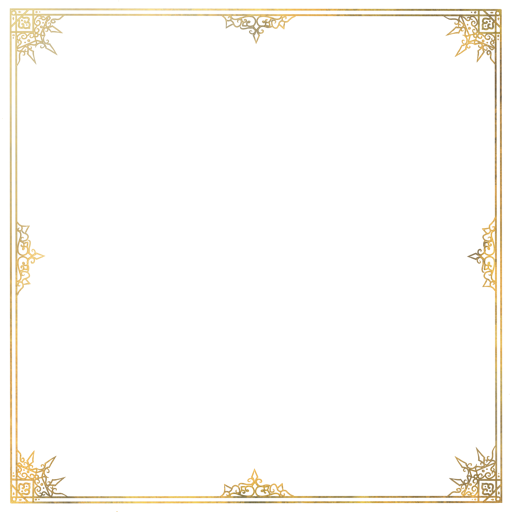
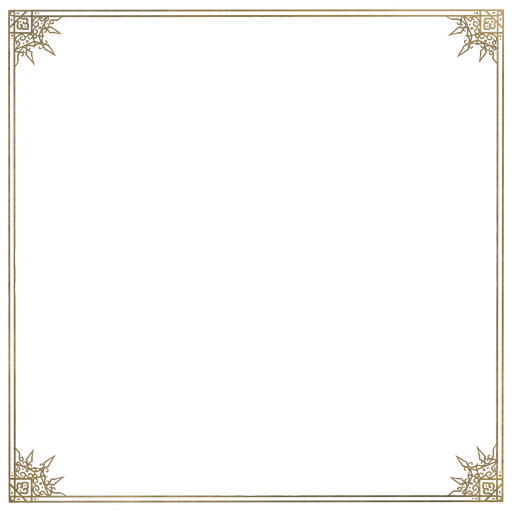
UX refont: hand-drawn frames, season emblems, buttons + mid-edge ornaments
- Rarity frames: swap rare/epic/legendary to the redrawn no-ornament (corner
  only) art so edges no longer stretch. Keep the old epic frame as
  item_frame_epic_full.png for the sidebar/topbar flourish crops (which still
  need its scrollwork).
- Season emblems: hand-drawn sun/moon/frost faces. In the sidebar header (right
  of "Valenheart", tooltip opens downward) and as a large low-opacity watermark
  behind the Farming page (above the weather backdrop). Autumn borrows summer
  until its own art; drought emblem ready for a future weather event.
- Buttons: .btn-primary = CSS gold gradient with a hover shine-sweep (Coanda
  style); .btn-secondary = the drawn outline frame; .upgrade-btn aliases
  primary. (Full app sweep + tertiary next.)
- Mid-edge frame flourishes restored via a reusable <FrameOrnaments> component
  (works on any rectangle): rare/epic/legendary roster cards carry them, scaled
  to the corner-ornament weight. Adventurer frame corners retuned to match the
  building/quest frame scale.

Changed region(s): [[0.0, 0.0, 1.0, 1.0]]

diff --git a/frontend/src/styles/global.css b/frontend/src/styles/global.css
@@ -391,7 +391,7 @@ body {
   width: calc(63px * var(--fl-scale));
   height: calc(24px * var(--fl-scale));
   transform: translateX(-50%);
-  background: url(/images/frames/item_frame_epic.png) no-repeat;
+  background: url(/images/frames/item_frame_epic_full.png) no-repeat;
   background-size: calc(512px * var(--fl-scale)) auto;
   background-position: calc(-225px * var(--fl-scale)) calc(-465px * var(--fl-scale));
   pointer-events: none;
@@ -453,7 +453,7 @@ body {
   width: calc(24px * var(--fl-scale));
   height: calc(63px * var(--fl-scale));
   transform: translateY(-50%);
-  background: url(/images/frames/item_frame_epic.png) no-repeat;
+  background: url(/images/frames/item_frame_epic_full.png) no-repeat;
   background-size: calc(512px * var(--fl-scale)) auto;
   background-position: calc(-465px * var(--fl-scale)) calc(-225px * var(--fl-scale));
   pointer-events: none;
@@ -1172,33 +1172,95 @@ body {
   text-transform: uppercase;
 }
 
-.upgrade-btn {
+/* ── Global button skins ──────────────────────────────────────────
+ * .btn-primary  — hand-painted FILLED gold button (border-image + `fill`
+ *                 keeps the rounded corners crisp at any width while the
+ *                 middle stretches to fill). Dark ink text.
+ * .btn-secondary — thin gold OUTLINE frame (transparent centre), gold text.
+ * .upgrade-btn is kept as an alias of .btn-primary so existing CTAs inherit
+ * the skin. Calibration knobs are the border-width + the slice. */
+.upgrade-btn,
+.btn-primary {
+  position: relative;
+  overflow: hidden; /* clip the shine sweep to the button */
   display: inline-flex;
   align-items: center;
   gap: 8px;
-  padding: 10px 24px;
-  background: linear-gradient(135deg, #5a4a1e, #8a7a3e);
-  color: var(--accent-gold);
-  border: 1px solid var(--accent-gold);
-  border-radius: 6px;
+  padding: 10px 22px;
+  /* CSS gold gradient (replaces the hand-drawn fill — lighter + more delicate,
+     and the thin border lets the shine sweep reach the button's edges). */
+  background: linear-gradient(180deg, #dcc06a 0%, #c49c3e 55%, #b28a30 100%);
+  border: 1px solid #9a7a2c;
+  border-radius: 4px;
+  color: #3a2a0e; /* dark ink — reads on the gold */
   font-family: var(--font-heading);
   font-size: 1rem;
+  font-weight: 600;
   cursor: pointer;
-  transition: all 0.15s;
+  box-shadow: 0 2px 6px rgba(0, 0, 0, 0.22);
+  transition: filter 0.15s, transform 0.15s;
 }
-
-.upgrade-btn:hover {
-  background: linear-gradient(135deg, #6a5a2e, #9a8a4e);
+/* Shine sweep on hover — a rotated light bar parked off the left edge that
+   glides across (adapted from the Coanda primary button). */
+.upgrade-btn::after,
+.btn-primary::after {
+  content: "";
+  position: absolute;
+  top: -50px;
+  left: -80px;
+  width: 46px;
+  height: 160px;
+  background: #fff;
+  opacity: 0.18;
+  transform: rotate(35deg);
+  transition: left 550ms cubic-bezier(0.19, 1, 0.22, 1);
+  pointer-events: none;
+}
+.upgrade-btn:hover::after,
+.btn-primary:hover::after {
+  left: 130%;
+}
+.upgrade-btn:hover,
+.btn-primary:hover {
+  filter: brightness(1.05);
   transform: translateY(-1px);
 }
-
-.upgrade-btn:disabled {
+.upgrade-btn:disabled,
+.btn-primary:disabled {
   opacity: 0.4;
   cursor: not-allowed;
   transform: none;
-  background: var(--bg-secondary);
-  border-color: var(--border-color);
-  color: var(--text-muted);
+  filter: grayscale(0.5);
+}
+.upgrade-btn:disabled::after,
+.btn-primary:disabled::after {
+  display: none;
+}
+
+.btn-secondary {
+  display: inline-flex;
+  align-items: center;
+  gap: 8px;
+  padding: 9px 20px;
+  background: transparent;
+  border: 7px solid transparent;
+  border-image: url(/images/ui/secondary_btn.png) 22 stretch;
+  border-radius: 0;
+  color: var(--accent-gold);
+  font-family: var(--font-heading);
+  font-size: 0.95rem;
+  cursor: pointer;
+  transition: filter 0.15s, transform 0.15s;
+}
+.btn-secondary:hover {
+  filter: brightness(1.12);
+  transform: translateY(-1px);
+}
+.btn-secondary:disabled {
+  opacity: 0.4;
+  cursor: not-allowed;
+  transform: none;
+  filter: grayscale(0.5);
 }
 
 .building-effect {

diff --git a/frontend/src/pages/AdventurersGuild.tsx b/frontend/src/pages/AdventurersGuild.tsx
@@ -48,6 +48,7 @@ import { playSound, playPageMountSound } from "~/engine/sounds";
 import CombatPlayback from "~/components/CombatPlayback";
 import { fetchCoops, respondCoop, cancelCoop, fetchCoopDetail, claimCoop } from "~/api/coop";
 import { wsClient } from "~/api/ws";
+import { FrameOrnaments } from "~/components/FrameOrnaments";
 import type { CompletedMission } from "@medieval-realm/shared/data/missions";
 
 type Tab = "missions" | "roster";
@@ -56,6 +57,16 @@ type Tab = "missions" | "roster";
 // the crafting cards use; drawn as the card's border-image.
 const RANK_FRAME = ["", "common", "uncommon", "rare", "epic", "legendary"];
 const rankFrameUrl = (rank: number) => `/images/frames/item_frame_${RANK_FRAME[rank] ?? "common"}.png`;
+
+// Mid-edge flourishes (restored via CSS since the frame art is corner-only now).
+// Only the higher tiers carry them; common/uncommon stay plain. legendary reuses
+// the epic flourish for now.
+const RANK_ORNAMENT: Record<number, string | undefined> = {
+  3: "/images/frames/ornament_rare.png",
+  4: "/images/frames/ornament_epic.png",
+  5: "/images/frames/ornament_epic.png",
+};
+const rankOrnamentH = (v: string) => v.replace(".png", "_h.png");
 
 
 
@@ -1040,9 +1051,20 @@ export default function AdventurersGuild() {
                           portrait stays flush to the edge and the frame overlays it. */}
                       <div aria-hidden="true" style={{
                         position: "absolute", inset: 0, "pointer-events": "none", "z-index": 3,
-                        border: "var(--ornament-w) solid transparent",
-                        "border-image": `url(${rankFrameUrl(adv.rank)}) var(--ornament-slice) stretch`,
+                        /* border-width + slice tuned so the corner ornaments render
+                           at the same visual scale as the building/quest frames. */
+                        border: "24px solid transparent",
+                        "border-image": `url(${rankFrameUrl(adv.rank)}) 44 stretch`,
                       }} />
+                      {/* Mid-edge flourishes (higher tiers only). */}
+                      <Show when={RANK_ORNAMENT[adv.rank]}>
+                        <FrameOrnaments
+                          vUrl={RANK_ORNAMENT[adv.rank]!}
+                          hUrl={rankOrnamentH(RANK_ORNAMENT[adv.rank]!)}
+                          size={28}
+                          inset={8}
+                        />
+                      </Show>
                       <span class="building-card-category" style={{ color: RANK_COLORS[adv.rank] }}>
                         {RANK_NAMES[adv.rank]}
                       </span>

diff --git a/frontend/src/components/Sidebar.tsx b/frontend/src/components/Sidebar.tsx
@@ -307,7 +307,32 @@ export default function Sidebar(props: SidebarProps) {
         ×
       </button>
       <div class="sidebar-header">
-        <h1>Valenheart</h1>
+        <div style={{ display: "flex", "align-items": "center", "justify-content": "space-between", gap: "10px" }}>
+          <h1>Valenheart</h1>
+          {(() => {
+            // Season emblem, always-visible in the header. Autumn has no art yet
+            // → falls back to the emoji. Drought emblem (season_drought.png) is
+            // ready for when a drought weather event lands.
+            const EMBLEM: Record<string, string> = {
+              spring: "/images/seasons/season_spring.png",
+              summer: "/images/seasons/season_summer.png",
+              winter: "/images/seasons/season_winter.png",
+            };
+            const season = () => currentWeatherInfo(state.season, state.seasonElapsed, state.year).season;
+            const src = () => EMBLEM[season()];
+            return (
+              <Show when={src()} fallback={<span style={{ "font-size": "1.6rem" }}>{SEASON_META[season()].icon}</span>}>
+                <Tooltip text={SEASON_META[season()].name} position="bottom">
+                  <img
+                    src={src()!}
+                    alt={SEASON_META[season()].name}
+                    style={{ width: "48px", height: "48px", "object-fit": "contain", "flex-shrink": "0", display: "block" }}
+                  />
+                </Tooltip>
+              </Show>
+            );
+          })()}
+        </div>
         {(() => {
           const [editing, setEditing] = createSignal(false);
           const [draft, setDraft] = createSignal("");
@@ -505,7 +530,7 @@ export default function Sidebar(props: SidebarProps) {
         })()}
 
         <Show when={IS_DEV}>
-          <button class="skip-season-btn" onClick={() => actions.skipSeason()}>
+          <button class="btn-secondary" style={{ width: "100%", "justify-content": "center", "font-size": "0.82rem", "margin-top": "4px" }} onClick={() => actions.skipSeason()}>
             Skip to next season →
           </button>
 

diff --git a/frontend/src/components/FrameOrnaments.tsx b/frontend/src/components/FrameOrnaments.tsx
@@ -1,0 +1,37 @@
+import type { JSX } from "solid-js";
+
+/** Mid-edge frame flourishes, reusable on ANY framed rectangle (narrow, wide,
+ *  square). Drop it inside a `position: relative` element and it places one
+ *  flourish centered on each edge, inset to sit on the frame's rule line.
+ *
+ *  Two images are needed because CSS-rotating a flourish then centering it is
+ *  fiddly: pass the vertical art (`vUrl`, used on the left/right edges, flipped
+ *  for the right) and its pre-rotated horizontal twin (`hUrl`, used on top/
+ *  bottom, flipped for the bottom). `size` is the flourish length along the
+ *  edge; `inset` is its distance from the card edge (match the frame's rule). */
+export function FrameOrnaments(props: {
+  vUrl: string;
+  hUrl: string;
+  size?: number;
+  inset?: number;
+  opacity?: number;
+}) {
+  const size = () => props.size ?? 56;
+  const inset = () => props.inset ?? 8;
+  const base = (): JSX.CSSProperties => ({
+    position: "absolute",
+    "pointer-events": "none",
+    "z-index": "4",
+    opacity: `${props.opacity ?? 0.95}`,
+  });
+  return (
+    <>
+      {/* left / right — vertical art, centered on the edge */}
+      <img aria-hidden="true" src={props.vUrl} style={{ ...base(), height: `${size()}px`, width: "auto", left: `${inset()}px`, top: "50%", transform: "translateY(-50%)" }} />
+      <img aria-hidden="true" src={props.vUrl} style={{ ...base(), height: `${size()}px`, width: "auto", right: `${inset()}px`, top: "50%", transform: "translateY(-50%) scaleX(-1)" }} />
+      {/* top / bottom — pre-rotated horizontal art, centered on the edge */}
+      <img aria-hidden="true" src={props.hUrl} style={{ ...base(), width: `${size()}px`, height: "auto", top: `${inset()}px`, left: "50%", transform: "translateX(-50%)" }} />
+      <img aria-hidden="true" src={props.hUrl} style={{ ...base(), width: `${size()}px`, height: "auto", bottom: `${inset()}px`, left: "50%", transform: "translateX(-50%) scaleY(-1)" }} />
+    </>
+  );
+}

diff --git a/frontend/src/pages/Farming.tsx b/frontend/src/pages/Farming.tsx
@@ -1459,7 +1459,41 @@ export default function Farming() {
   const villageUnlocked = () => townHallLevel() >= 3;     // fields, livestock & bees, orchards
 
   return (
-    <div>
+    // z-index:0 makes this page its own stacking context, so the emblem's
+    // z-index:-1 sits behind the cards but ABOVE the weather backdrop (rain).
+    <div style={{ position: "relative", "z-index": "0" }}>
+      {/* Big season emblem watermark — bleeds off the top-left so the face + its
+          right/bottom edges show; behind the cards, above the weather. Autumn has
+          no art yet, so it borrows the summer emblem as a stand-in for now. */}
+      {(() => {
+        const EMBLEM: Record<string, string> = {
+          spring: "/images/seasons/season_spring.png",
+          summer: "/images/seasons/season_summer.png",
+          winter: "/images/seasons/season_winter.png",
+          autumn: "/images/seasons/season_summer.png", // TEMP stand-in until autumn art
+        };
+        const src = () => EMBLEM[state.season];
+        return (
+          <Show when={src()}>
+            <img
+              src={src()!}
+              alt=""
+              aria-hidden="true"
+              style={{
+                position: "absolute",
+                top: "-130px",
+                left: "-180px",
+                width: "640px",
+                height: "640px",
+                "object-fit": "contain",
+                opacity: "0.2",
+                "pointer-events": "none",
+                "z-index": "-1",
+              }}
+            />
+          </Show>
+        );
+      })()}
       <h1 class="page-title">Farming</h1>
 
       {/* Rotation tip — appears only until the player has actually planted, so
